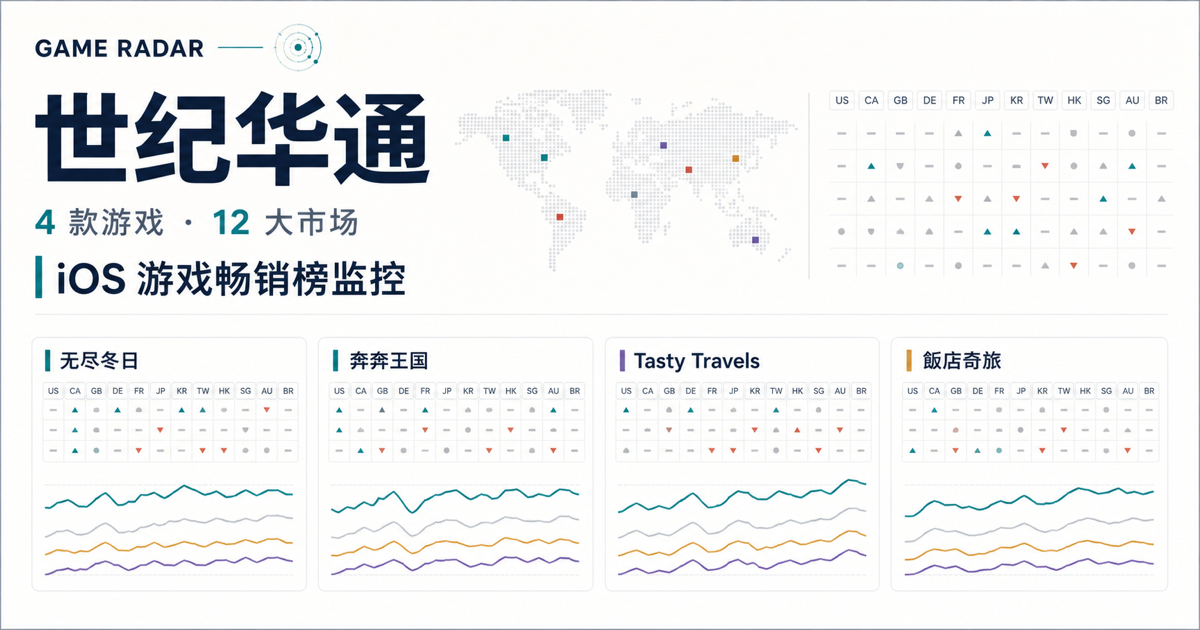
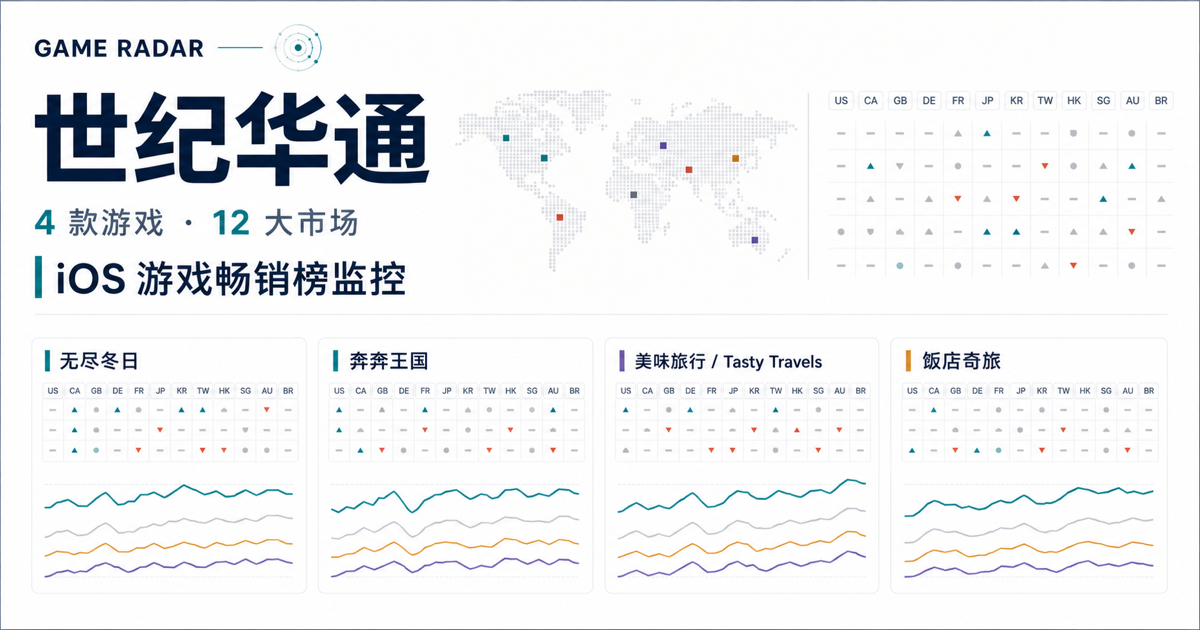
Correct Century Games display names

diff --git a/server.js b/server.js
@@ -323,7 +323,7 @@ const dashboards = [
       },
       {
         id: "tasty-travels",
-        title: "Tasty Travels: Merge Game",
+        title: "美味旅行 / Tasty Travels: Merge Game",
         internationalTitle: "Merge and Explore",
         appId: "6471045672",
         lookupCountry: "us",
@@ -333,7 +333,7 @@ const dashboards = [
       {
         id: "hotel-journey",
         title: "飯店奇旅",
-        internationalTitle: "Merge & Makeover",
+        internationalTitle: "Hotel Legacy: Merge Game",
         appId: "6752886832",
         lookupCountry: "us"
       }
